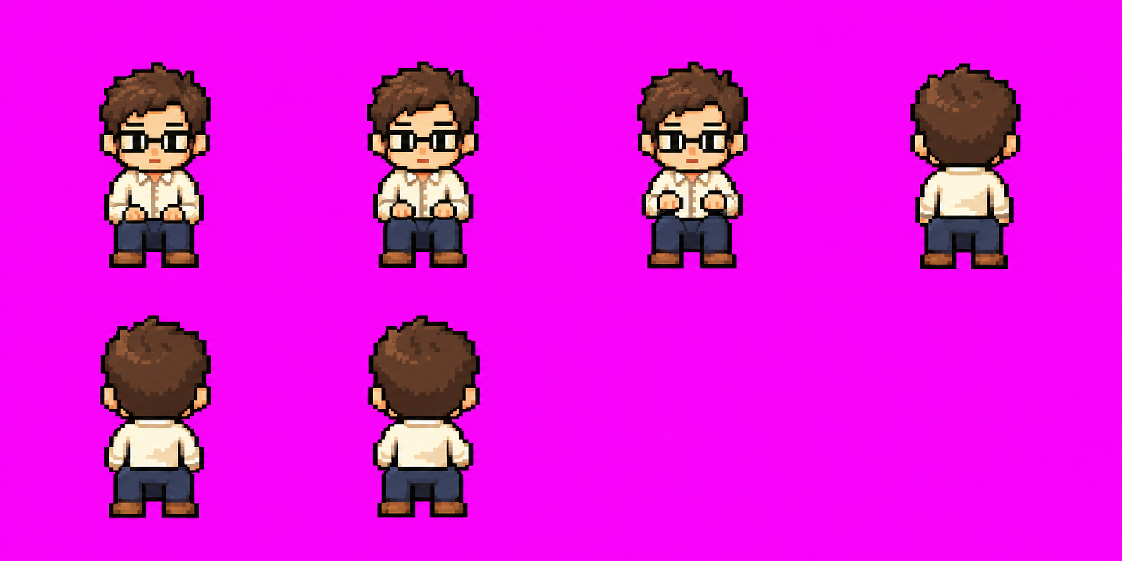
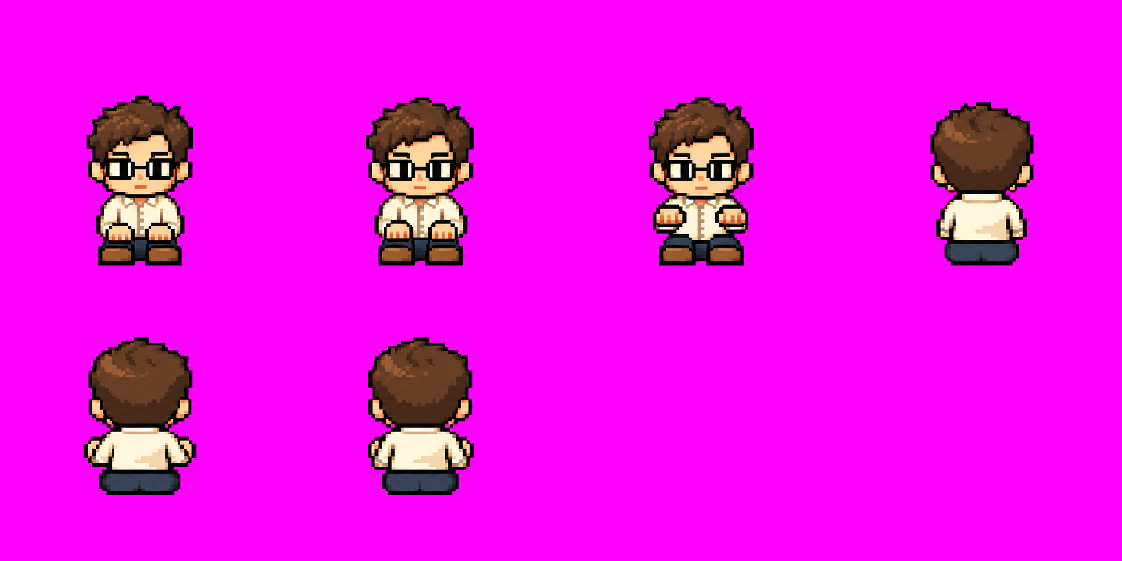
office: regenerate visibly seated front and back frames

diff --git a/apps/office/assets/PROMPTS.md b/apps/office/assets/PROMPTS.md
@@ -1,37 +1,23 @@
 # 像素办公室素材生成记录
-
+第二版（2026-10-15）取代 W51 第一版：第一版正背坐姿腿过长、整体高度接近站姿，看起来站在椅子上；以下第一版记录保留作为历史。
 使用 Codex 内置 image_gen 工具，2026-10-14 生成。画风参考 `docs/office-samples/background-sample.png` 与 `sprite-sample.png`。
-
 经协调者确认，为保证走路、坐姿、打字的原像素比例和身份一致，每种角色改为同一次生成的 **4 列 × 5 行** 图；前四行依次下、左、右、上，每行站、左脚、站、右脚，第五行坐姿、打字 1、打字 2、空格。新增坐姿由五张独立的 `<kind>-seated.png` 4 列 × 2 行补充图提供，原五行逐像素保留。只保留选中的六张原图及五张补充图。原图保留完整生成内容；固定原图运行 `pnpm --filter office sprites` 可确定性重建图集。生图本身具有随机性，同提示词不能保证逐像素重现。
-
 切帧方式经协调者确认调整为：抠色后在整图上做 8 邻接连通区域标记，按区域质心归入 `Math.round(i*W/4)`、`Math.round(j*H/5)` 边界确定的格子，完整保留越界头发。19 个角色格必须有像素，留空格不能超过 10 个不透明像素；全部帧仍共用框、底边对齐、最近邻等比缩放。
-
 ## background.png
-
 用途：场景背景，不缩放、不拉伸；public 中为原图副本。
-
 生成次数：2；选中第 2 次（对第 1 次结果作定向修改）。实测尺寸：1672×941。
-
 完整提示词原文：
-
 ```text
 Use case: stylized-concept. Create a production game background for a pixel-art office. Match the warm wooden furniture, cream walls, crisp dark brown pixel outlines and oblique overhead isometric view of the office sample. Wide horizontal 16:9 composition, requested 2048x1152. One complete spacious office with clearly separated areas and open connected walkways: reception counter at front left with an EMPTY chair behind it and a completed-file basket beside it; a large task whiteboard on the back wall; exactly FOUR work zones arranged as four separate desk clusters, each cluster containing FOUR individual computer desks and four empty chairs (16 work desks total), each cluster has an entirely blank sign plaque for programmatic labels; a separate meeting area with ONE large conference table and exactly SIX empty seats; a lounge with sofa and coffee machine; entrance door at the lower right edge. No people or characters anywhere, no silhouettes, no writing or letters on signs. Warm late afternoon light from upper left, cozy amber wood and cream, restrained plants. Pixel art with hard square pixels, no blur, no gradients, no watermark. Keep all furniture fully visible within image, reserve generous floor space for walking characters. This is a new larger office scene in the sample's style, not the sample's four-desk layout.
 ```
-
 第 2 次完整修改提示词（引用第 1 次生成图）：
-
 ```text
 Edit the referenced warm pixel office background. Change ONLY the conference area at TOP RIGHT: REMOVE the single chair at the left short end of the table and the single chair at the right short end. Keep the THREE chairs along the upper long edge and THREE chairs along the lower long edge, exactly SIX seats total. Fill removed chairs with the matching rug/floor. Preserve the entire rest of the image unchanged: four 4-desk clusters, reception and completed-file basket at lower left, whiteboard, blank plaques, lounge coffee machine, entrance at lower right, empty people-free scene, warm wood, overhead oblique view, wide composition, original dimensions. Do not add people, text or any new furniture.
 ```
-
 ## claude-code.png
-
 用途：角色原图，19 帧共用包围盒、脚底对齐，最近邻等比缩放到 64×96。
-
 生成次数：1；选中第 1 次。实测尺寸：1122×1402。
-
 完整提示词原文：
-
 ```text
 Use case: stylized-concept. Production pixel-game character atlas, exactly FOUR columns and FIVE rows in a regular equally spaced rectangular grid (20 equal cells). Uniform pure #FF00FF magenta background. claude-code office worker: teal hoodie with hood down, dark charcoal trousers, brown shoes, short dark brown hair, warm peach face. Same face, outfit, pixel scale and two-head-tall chibi proportions in ALL cells, including sitting cells. Crisp thick dark brown square pixel outlines, simple 3-tone shading, upper-left warm light, retro RPG sprites matching the supplied sample's aesthetic. Every character occupies about 65% of its cell height when standing; generous magenta margins and centered horizontally. Feet at identical local baseline in every cell. No shadows, text, grid borders or props.
 ROW 1 DOWN facing viewer: neutral standing, left foot forward, neutral standing, right foot forward.
@@ -41,15 +27,10 @@ ROW 4 UP back view: neutral standing, left foot forward, neutral standing, right
 ROW 5: cell 1 RIGHT profile seated on invisible chair, hands on lap; cell 2 same seated pose with hands forward at invisible keyboard height down; cell 3 same seated pose with hands a few pixels up typing; cell 4 completely EMPTY MAGENTA.
 Seated sprites are naturally shorter due to bent knees, NEVER enlarged: exactly same head size, same torso size and same pixel scale as walking sprites. All soles rest at the same relative height in their cells. No visible chair, desk or keyboard. Maintain outfit teal hoodie with hood down, dark charcoal trousers, brown shoes, short dark brown hair, warm peach face throughout. Need exactly 19 characters plus one blank cell; never add sixth row.
 ```
-
 ## codex.png
-
 用途：角色原图，19 帧共用包围盒、脚底对齐，最近邻等比缩放到 64×96。
-
 生成次数：2；选中第 2 次（对第 1 次结果作定向修改）。实测尺寸：1122×1402。
-
 完整提示词原文：
-
 ```text
 Use case: stylized-concept. Production pixel-game character atlas, exactly FOUR columns and FIVE rows in a regular equally spaced rectangular grid (20 equal cells). Uniform pure #FF00FF magenta background. codex office worker: ivory button-up shirt, navy trousers, brown shoes, black rectangular glasses, short dark brown hair, warm peach face. Same face, outfit, pixel scale and two-head-tall chibi proportions in ALL cells, including sitting cells. Crisp thick dark brown square pixel outlines, simple 3-tone shading, upper-left warm light, retro RPG sprites matching the supplied sample's aesthetic. Every character occupies about 65% of its cell height when standing; generous magenta margins and centered horizontally. Feet at identical local baseline in every cell. No shadows, text, grid borders or props.
 ROW 1 DOWN facing viewer: neutral standing, left foot forward, neutral standing, right foot forward.
@@ -59,21 +40,14 @@ ROW 4 UP back view: neutral standing, left foot forward, neutral standing, right
 ROW 5: cell 1 RIGHT profile seated on invisible chair, hands on lap; cell 2 same seated pose with hands forward at invisible keyboard height down; cell 3 same seated pose with hands a few pixels up typing; cell 4 completely EMPTY MAGENTA.
 Seated sprites are naturally shorter due to bent knees, NEVER enlarged: exactly same head size, same torso size and same pixel scale as walking sprites. All soles rest at the same relative height in their cells. No visible chair, desk or keyboard. Maintain outfit ivory button-up shirt, navy trousers, brown shoes, black rectangular glasses, short dark brown hair, warm peach face throughout. Need exactly 19 characters plus one blank cell; never add sixth row.
 ```
-
 第 2 次完整修改提示词（引用第 1 次生成图）：
-
 ```text
 Edit this character sheet for strict equal-cell slicing. Keep exactly 1122x1402 image, 4 columns by 5 rows, 19 same codex characters and the blank bottom-right cell, original face glasses ivory shirt navy trousers brown shoes, all poses and pixel scale unchanged. The equal ROW boundaries are y=0,280,561,841,1122,1402. The equal COLUMN boundaries are x=0,281,561,842,1122. EVERY sprite including hair and shoes MUST be completely inside its own cell with at least 25 pixels magenta clearance from EVERY boundary. Move sprites vertically to have feet at y=235,515,796,1076,1357 respectively; do not resize sprites. This eliminates the back-view hair spilling into row3 and seated hair spilling into row4. Preserve down,left,right,up row order and sit,typing1,typing2,empty fifth row. Fill all gaps with exact flat #FF00FF, no stray pixels or shadows.
 ```
-
 ## n8n.png
-
 用途：角色原图，19 帧共用包围盒、脚底对齐，最近邻等比缩放到 64×96。
-
 生成次数：1；选中第 1 次。实测尺寸：1122×1402。
-
 完整提示词原文：
-
 ```text
 Use case: stylized-concept. Production pixel-game character atlas, exactly FOUR columns and FIVE rows in a regular equally spaced rectangular grid (20 equal cells). Uniform pure #FF00FF magenta background. n8n office worker: bright orange vest over cream short-sleeved shirt, charcoal trousers, brown shoes, short dark brown hair, warm peach face. Same face, outfit, pixel scale and two-head-tall chibi proportions in ALL cells, including sitting cells. Crisp thick dark brown square pixel outlines, simple 3-tone shading, upper-left warm light, retro RPG sprites matching the supplied sample's aesthetic. Every character occupies about 65% of its cell height when standing; generous magenta margins and centered horizontally. Feet at identical local baseline in every cell. No shadows, text, grid borders or props.
 ROW 1 DOWN facing viewer: neutral standing, left foot forward, neutral standing, right foot forward.
@@ -83,15 +57,10 @@ ROW 4 UP back view: neutral standing, left foot forward, neutral standing, right
 ROW 5: cell 1 RIGHT profile seated on invisible chair, hands on lap; cell 2 same seated pose with hands forward at invisible keyboard height down; cell 3 same seated pose with hands a few pixels up typing; cell 4 completely EMPTY MAGENTA.
 Seated sprites are naturally shorter due to bent knees, NEVER enlarged: exactly same head size, same torso size and same pixel scale as walking sprites. All soles rest at the same relative height in their cells. No visible chair, desk or keyboard. Maintain outfit bright orange vest over cream short-sleeved shirt, charcoal trousers, brown shoes, short dark brown hair, warm peach face throughout. Need exactly 19 characters plus one blank cell; never add sixth row.
 ```
-
 ## script.png
-
 用途：角色原图，19 帧共用包围盒、脚底对齐，最近邻等比缩放到 64×96。
-
 生成次数：2；选中第 2 次（对第 1 次结果作定向修改）。实测尺寸：1122×1402。
-
 完整提示词原文：
-
 ```text
 Use case: stylized-concept. Production pixel-game character atlas, exactly FOUR columns and FIVE rows in a regular equally spaced rectangular grid (20 equal cells). Uniform pure #FF00FF magenta background. script office worker: blue baseball cap, mustard short-sleeved shirt, navy trousers, brown shoes, short dark brown hair, warm peach face. Same face, outfit, pixel scale and two-head-tall chibi proportions in ALL cells, including sitting cells. Crisp thick dark brown square pixel outlines, simple 3-tone shading, upper-left warm light, retro RPG sprites matching the supplied sample's aesthetic. Every character occupies about 65% of its cell height when standing; generous magenta margins and centered horizontally. Feet at identical local baseline in every cell. No shadows, text, grid borders or props.
 ROW 1 DOWN facing viewer: neutral standing, left foot forward, neutral standing, right foot forward.
@@ -101,21 +70,14 @@ ROW 4 UP back view: neutral standing, left foot forward, neutral standing, right
 ROW 5: cell 1 RIGHT profile seated on invisible chair, hands on lap; cell 2 same seated pose with hands forward at invisible keyboard height down; cell 3 same seated pose with hands a few pixels up typing; cell 4 completely EMPTY MAGENTA.
 Seated sprites are naturally shorter due to bent knees, NEVER enlarged: exactly same head size, same torso size and same pixel scale as walking sprites. All soles rest at the same relative height in their cells. No visible chair, desk or keyboard. Maintain outfit blue baseball cap, mustard short-sleeved shirt, navy trousers, brown shoes, short dark brown hair, warm peach face throughout. Need exactly 19 characters plus one blank cell; never add sixth row.
 ```
-
 第 2 次完整修改提示词（引用第 1 次生成图）：
-
 ```text
 Edit the referenced pixel sprite atlas. Keep exactly its 4 columns by 5 rows, dimensions, all colors, magenta background, blue-cap mustard-shirt character identity, pixel proportions and outlines. Change ONLY rows TWO and THREE: swap those rows' contents, so row TWO all four characters face LEFT (nose and cap brim point toward the LEFT edge), row THREE all four characters face RIGHT (nose and cap brim point toward the RIGHT edge). Rows one, four and five must remain unchanged, row five fourth cell stays empty magenta. Preserve exact equal grid spacing and walking order standing, left foot, standing, right foot. No text or lines.
 ```
-
 ## custom.png
-
 用途：角色原图，19 帧共用包围盒、脚底对齐，最近邻等比缩放到 64×96。
-
 生成次数：1；选中第 1 次。实测尺寸：1122×1402。
-
 完整提示词原文：
-
 ```text
 Use case: stylized-concept. Production pixel-game character atlas, exactly FOUR columns and FIVE rows in a regular equally spaced rectangular grid (20 equal cells). Uniform pure #FF00FF magenta background. custom office worker: burgundy casual sweater, khaki trousers, brown shoes, short dark brown hair, warm peach face. Same face, outfit, pixel scale and two-head-tall chibi proportions in ALL cells, including sitting cells. Crisp thick dark brown square pixel outlines, simple 3-tone shading, upper-left warm light, retro RPG sprites matching the supplied sample's aesthetic. Every character occupies about 65% of its cell height when standing; generous magenta margins and centered horizontally. Feet at identical local baseline in every cell. No shadows, text, grid borders or props.
 ROW 1 DOWN facing viewer: neutral standing, left foot forward, neutral standing, right foot forward.
@@ -125,9 +87,7 @@ ROW 4 UP back view: neutral standing, left foot forward, neutral standing, right
 ROW 5: cell 1 RIGHT profile seated on invisible chair, hands on lap; cell 2 same seated pose with hands forward at invisible keyboard height down; cell 3 same seated pose with hands a few pixels up typing; cell 4 completely EMPTY MAGENTA.
 Seated sprites are naturally shorter due to bent knees, NEVER enlarged: exactly same head size, same torso size and same pixel scale as walking sprites. All soles rest at the same relative height in their cells. No visible chair, desk or keyboard. Maintain outfit burgundy casual sweater, khaki trousers, brown shoes, short dark brown hair, warm peach face throughout. Need exactly 19 characters plus one blank cell; never add sixth row.
 ```
-
 ## 实测尺寸总表
-
 | 原图 | 用途 | 次数 / 选中 | 实测宽×高 |
 | --- | --- | --- | --- |
 | background.png | 背景 | 2 / 2 | 1672×941 |
@@ -136,58 +96,104 @@ Seated sprites are naturally shorter due to bent knees, NEVER enlarged: exactly 
 | n8n.png | 4×5 角色精灵（19 帧） | 1 / 1 | 1122×1402 |
 | script.png | 4×5 角色精灵（19 帧） | 2 / 2 | 1122×1402 |
 | custom.png | 4×5 角色精灵（19 帧） | 1 / 1 | 1122×1402 |
-
-
 ## claude-code-seated.png
-
 用途：新增正面／背面坐姿与打字六帧；原五行不改。生成次数：2；选中第 2 次。实测尺寸：1774×887；最近邻缩放到 1122×561，缩放前后人工检查像素清晰、正背方向正确。
-
 完整提示词原文（按生成顺序；每次均引用原角色图，定向修改另引用前次结果）：
-
 ```text
 Use case: identity-preserve. Edit the referenced production pixel-game character atlas to produce ONLY TWO NEW ROWS, exactly FOUR columns by TWO rows (8 equal cells), requested 1122x561. Reference is identity and exact pixel-scale guide, do NOT redraw or include its original five rows. Uniform pure #FF00FF magenta background. Same claude-code worker, teal hoodie hood down, charcoal trousers, brown shoes, same short dark brown hair and peach face, same thick square dark outlines and 3-tone pixel shading. Exact SAME head width approximately 108 pixels and seated total height approximately 200 pixels as reference fifth row, NEVER enlarge. Each 280.5x280.5 cell has sprite centered horizontally and soles at local y=235. ROW 1: cell 1 DOWN facing viewer seated on invisible chair hands on lap; cell 2 same front seated hands forward at invisible keyboard height down; cell 3 same front seated hands slightly raised typing; cell 4 UP back-view seated, showing back of head and hoodie back. ROW 2: cell 1 UP back-view seated typing hands low; cell 2 same back seated typing hands slightly raised; cells 3 and 4 COMPLETELY EMPTY MAGENTA. Bent knees make seated sprite shorter than standing. Match reference fifth row torso size and head size exactly. Front faces audience, back shows no face. No chair, desk, keyboard, shadows, labels, text or grid lines. Keep six figures fully inside individual cells with generous magenta margins. Output only new 4x2 sheet.
 ```
-
 ```text
 Use case: identity-preserve. Correct ONLY the seated posture of the six figures in image 2. Image 1 original fifth row is the exact identity and scale reference. Image 2 figures currently look standing: make all six visibly SITTING with thighs horizontal, bent knees raised forward, short vertical shins, soles beneath knees. Front figures must have visibly broad horizontal lap and knees protruding sideways in front of hips, torso shortened by sitting, NOT straight standing legs. Back figures must also sit with bent legs, wide seated hips and shortened lower body. Same hair and face and teal hoodie from reference, no change in head size; normalized to requested 1122x561 sheet the head should be 108 px wide and total seated body 200 px tall. Match original fifth row pixel-art exactly. Keep 4 columns x2 rows: top front sit / front typing hands low / front typing hands up / back sit; bottom back typing low / back typing up / EMPTY / EMPTY. Pure #FF00FF background. No chairs, desks, keyboards, shadows, text, lines. Only new two-row sheet, requested 1122x561.
 ```
-
 ## codex-seated.png
-
 用途：新增正面／背面坐姿与打字六帧；原五行不改。生成次数：1；选中第 1 次。实测尺寸：1774×887；最近邻缩放到 1122×561，缩放前后人工检查像素清晰、正背方向正确。
-
 完整提示词原文（按生成顺序；每次均引用原角色图，定向修改另引用前次结果）：
-
 ```text
 Use case: identity-preserve. Using this original sprite atlas as exact identity and pixel-scale reference, output ONLY new TWO ROWS, FOUR columns by TWO rows, requested 1122x561, pure #FF00FF magenta background. Codex worker same black rectangular glasses, short brown hair, ivory button-up shirt, navy trousers, brown shoes. Same face and shading, crisp square pixels, thick dark outlines, NOT enlarged. At 1122x561 each sprite seated height 216px and head width 120px, matching original fifth-row sit. All six figures visibly SITTING: horizontal thighs and raised broad knees in front of hips, bent knees, short vertical shins, wide seated lap, shorter than standing. ROW 1: DOWN front-facing sitting hands on lap; DOWN sitting typing hands forward low; DOWN sitting typing hands a few pixels higher; UP back-view sitting showing back of head and shirt, no face. ROW 2: UP sitting typing low; UP sitting typing hands slightly raised; EMPTY MAGENTA; EMPTY MAGENTA. Same original pixel thickness and body proportions as fifth row. Regular equally spaced 280.5px cells, centered with ample margins and soles at local y=245. No visible chair, desk, keyboard, shadows, letters or grid lines. Do not include original five rows.
 ```
-
 ## n8n-seated.png
-
 用途：新增正面／背面坐姿与打字六帧；原五行不改。生成次数：1；选中第 1 次。实测尺寸：1774×887；最近邻缩放到 1122×561，缩放前后人工检查像素清晰、正背方向正确。
-
 完整提示词原文（按生成顺序；每次均引用原角色图，定向修改另引用前次结果）：
-
 ```text
 Use case: identity-preserve. Produce ONLY TWO NEW ROWS for referenced pixel atlas, requested 1122x561, exactly FOUR columns x TWO rows regular equal cells. Pure #FF00FF magenta background. Exact same n8n worker identity: orange vest cream short sleeves charcoal trousers brown shoes short dark brown hair peach face, thick dark square pixel outlines, simple 3-tone shading, same original pixel thickness. Original fifth-row sit is size reference: seated total height 200px, head width 104px at target dimensions. Never enlarge. Six figures all visibly SITTING: horizontal thighs, bent knees forward, broad lap and short downward shins; shorter than standing, same torso and head size. ROW 1: DOWN front-view seated hands on lap; DOWN seated typing hands forward low; DOWN seated typing hands slightly up; UP back-view seated showing back of head and vest, no face. ROW 2: UP seated typing hands low; UP seated typing hands slightly raised; EMPTY MAGENTA; EMPTY MAGENTA. Center sprites within 280.5px cells, feet at local y=240, generous clear margins. No chairs desks keyboards shadows text or grid lines. Only new two rows, exclude original five rows, preserve reference appearance.
 ```
-
 ## script-seated.png
-
 用途：新增正面／背面坐姿与打字六帧；原五行不改。生成次数：1；选中第 1 次。实测尺寸：1774×887；最近邻缩放到 1122×561，缩放前后人工检查像素清晰、正背方向正确。
-
 完整提示词原文（按生成顺序；每次均引用原角色图，定向修改另引用前次结果）：
-
 ```text
 Use case: identity-preserve. Produce ONLY TWO NEW ROWS for referenced pixel atlas, requested 1122x561, exactly FOUR columns x TWO rows regular equal cells. Pure #FF00FF magenta background. Exact same script worker identity: blue baseball cap, mustard short-sleeve shirt navy trousers brown shoes brown hair peach face, thick dark square pixel outlines, simple 3-tone shading, same original pixel thickness. Original fifth-row sit is size reference: seated total height 197px, head width 114px at target dimensions. Never enlarge. Six figures all visibly SITTING: horizontal thighs and bent knees forward, broad lap, short downward shins; shorter than standing, same torso and head size. ROW 1: DOWN front-view seated hands on lap; DOWN seated typing hands forward low; DOWN seated typing hands slightly up; UP back-view seated showing cap back and shirt back, no face. ROW 2: UP seated typing hands low; UP seated typing hands slightly raised; EMPTY MAGENTA; EMPTY MAGENTA. Center sprites within 280.5px cells, feet at local y=240, generous clear margins. No chairs desks keyboards shadows text or grid lines. Only new two rows, exclude original five rows, preserve reference appearance.
 ```
-
 ## custom-seated.png
-
 用途：新增正面／背面坐姿与打字六帧；原五行不改。生成次数：1；选中第 1 次。实测尺寸：1774×887；最近邻缩放到 1122×561，缩放前后人工检查像素清晰、正背方向正确。
-
 完整提示词原文（按生成顺序；每次均引用原角色图，定向修改另引用前次结果）：
-
 ```text
 Use case: identity-preserve. Produce ONLY TWO NEW ROWS for referenced pixel atlas, requested 1122x561, exactly FOUR columns x TWO rows regular equal cells. Pure #FF00FF magenta background. Exact same custom worker identity: burgundy sweater with white collar khaki trousers brown shoes short dark brown hair peach face, thick dark square pixel outlines, simple 3-tone shading, same original pixel thickness. Original fifth-row sit is size reference: seated total height 200px, head width 106px at target dimensions. Never enlarge. Six figures all visibly SITTING: horizontal thighs and bent knees forward, broad lap, short downward shins; shorter than standing, same torso and head size. ROW 1: DOWN front-view seated hands on lap; DOWN seated typing hands forward low; DOWN seated typing hands slightly up; UP back-view seated showing back of head and sweater, no face. ROW 2: UP seated typing hands low; UP seated typing hands slightly raised; EMPTY MAGENTA; EMPTY MAGENTA. Center sprites within 280.5px cells, feet at local y=240, generous clear margins. No chairs desks keyboards shadows text or grid lines. Only new two rows, exclude original five rows, preserve reference appearance.
+```
+## 坐姿第二版共用处理
+经协调端确认，六个人物按同一个 0.85–1.0 系数等比最近邻缩小，不压扁头部、不改姿势；每格水平居中、底边保持生成结果的位置。原图 `<kind>.png` 不动。以下比例先按实际输出最近邻调整到 1122×561，再测包围盒；头宽取包围盒上方 35% 不透明区域的横向跨度。六格均已逐格检查：正面大腿横向、膝盖弯曲，背面只见后脑、肩背和坐着的臀部；缩放后未见明显断线。
+选中原始生成结果保存在 `https://raw.githubusercontent.com/zygs1083-dotcom/IDesk/pr-assets/w54/selected-original-<kind>.png`；下载到 `selected.png` 后执行下列代码（`kind`、`factor` 取各节数值）可复现已入库结果，不往 tools/ 增加脚本：
+```python
+from PIL import Image
+import math
+import sys
+kind,source,factor=sys.argv[1],sys.argv[2],float(sys.argv[3])
+image=Image.open(source).convert('RGB').resize((1122,561),Image.Resampling.NEAREST)
+result=Image.new('RGB',image.size,(255,0,255))
+for index in range(6):
+ col,row=index%4,index//4
+ left,right=round(col*1122/4),round((col+1)*1122/4)
+ top,bottom=round(row*561/2),round((row+1)*561/2)
+ cell=image.crop((left,top,right,bottom))
+ mask=Image.new('L',cell.size)
+ mask.putdata([255 if math.dist(rgb,(255,0,255))>60 else 0 for rgb in cell.get_flattened_data()])
+ box=mask.getbbox()
+ figure=cell.crop(box)
+ figure=figure.resize((round(figure.width*factor),round(figure.height*factor)),Image.Resampling.NEAREST)
+ result.paste(figure,(round((left+right-figure.width)/2),top+box[3]-figure.height))
+result.save('apps/office/assets/raw/'+kind+'-seated.png')
+```
+命令：`python3 normalize.py <kind> selected.png <factor>`（代码仅供复现；normalize.py 是临时文件）。
+## claude-code-seated.png 坐姿补充图第二版
+用途：替换第一版正背坐与打字六帧；4 列 × 2 行，末两格空白。生成次数：3；选中第 3 次。实测尺寸：1774×887；先整图最近邻到 1122×561，再六格统一系数 0.90，每格底边居中；最终 1122×561。
+实测（高度比 / 头宽差，前→后处理）：sit/down 0.8660 / +8.57% → 0.7799 / -1.90%；sit/up 0.8421 / +15.24% → 0.7560 / +3.81%。
+完整提示词原文（按生成顺序，行序即次数；引用原图及上次生成图）：
+```text
+Create seated supplement ONLY4columns x2rows, output1122x561 pure #ff00ff. Preserve referenced pixel character teal hoodie brown spiky hair black trousers brown shoes. Reference first standing frame is210px high head106px wide. Every new seated figure MUST be157px high (75% standing), head106px wide unchanged. Head approximately94px high, shirt torso only40px high, knees/shins/feet only23px high. Make very squat seated shape with broad lap. Front sit has horizontal thighs toward viewer bent knees short downward shins feet in front, clearly seated not standing. Back sit only back head shoulders hoodie and rounded seated buttocks, legs hidden. Don't render furniture. Row1 front sit hands lap/front typing/front typing alternate/back sit; row2 back typing/back typing alternate/empty/empty. Cell centers140,421,701,982. Heads top95 feet252 in each row. Thin crisp square pixels match original. NO long legs, NO tall torsos. If generated at1774px wide, figures must be248px total high and head168px wide. KEEP HEAD LARGE and shorten body below head strongly.
+CORRECTION: first image figures are MUCH TOO LARGE. Regenerate same six seated poses same4x2 magenta sheet with MUCH MORE EMPTY MAGENTA SPACE AROUND EACH FIGURE. At1774x887 output each cell443x443. Each figure must occupy only248px vertical (56% of cell height) and168px head width (38% cell width). Existing first image figures are320px high and200px wide WRONG, reduce whole body size about20%, but head MUST match second image original standing head when scaled sheets both1122px wide. Head target106px at1122px width. Seated height157px. Put feet local y255 and top98 on1122 sheet. Broad lap horizontal thighs bent knees downward short shins. Back seated head hoodie back and rounded buttocks, legs hidden. Keep hands lap in first, typing front next two, back sit fourth, back typing two nextrow, empty final2. Hoodie teal brown spiky hair black pants brown shoes, same crisp pixel art. No furniture. Plenty empty magenta, figures must look smaller than first image. Match original standing head size.
+Increase the size of ALL six existing pixel characters by exactly25 percent (1.25x) within their same respective cells. Keep sheet 4columns x2rows magenta, same six poses and last2empty. Current characters approximately200px high in1774x887 sheet, make250px high with head168px wide. Head must not become giant. Scale whole figures uniformly, retain exact seated proportions; broad bent knees feet forward on front, rounded seated bottom and hidden legs on back. Brown spiky hair teal hoodie charcoal trousers brown shoes. Don't invent new pose or modify colors. Keep pixel edges crisp. Generous magenta margins.
+```
+## codex-seated.png 坐姿补充图第二版
+用途：替换第一版正背坐与打字六帧；4 列 × 2 行，末两格空白。生成次数：4；选中第 2 次。实测尺寸：1774×887；先整图最近邻到 1122×561，再六格统一系数 0.92，每格底边居中；最终 1122×561。
+实测（高度比 / 头宽差，前→后处理）：sit/down 0.8479 / +4.55% → 0.7788 / -3.64%；sit/up 0.8111 / +0.91% → 0.7465 / -7.27%。
+完整提示词原文（按生成顺序，行序即次数；引用原图及上次生成图）：
+```text
+Create replacement codex seated pixel sprite supplement. Output 1122x561, exactly 4 columns x 2 rows on solid #FF00FF. Preserve identical brown hair, glasses, cream shirt, dark trousers and pixel art identity from reference. Reference standing down first cell is 218px tall with head 110px wide. ALL NEW seated sprites MUST have 164px total opaque height (75% of standing), SAME head width 110px, same head size, shorten only legs. NOT 200px tall. Front seated: visibly bent knees, horizontal thighs toward viewer, very short vertical shins, feet in front, lap broad. Back seated: only back of head shoulders shirt back and rounded seated buttocks, legs almost completely hidden, NEVER long standing legs. No visible chair furniture or shadows. Cell centers x 140,421,701,982. Feet at local y=245, head top y=81 in each row. Row1: front sit hands lap; front typing hands forward; front typing hands raised a little; back sit. Row2: back typing; back typing alternate; EMPTY; EMPTY. Exactly six figures. Crisp square pixel edges. Keep magenta gaps and regular cells. This replaces a failed version whose long legs made characters stand on chairs. Shrink legs strongly, preserve head.
+Edit second image seated sheet to fix proportions using first standing sheet identity. Keep 4x2 six poses, magenta background and empty last two cells. IMPORTANT second image still too tall: at its 1774x887 size opaque figures height 310px is WRONG; required height 258px maximum, ideally 254px. Head width should be 174px, current 186px is too wide, reduce head width slightly only to 174px. Front head about 160px height, torso only 58px height, knees and feet only 36px height, total 254px. Back head about 160px high plus shoulders torso and seated bottom total only 254px, no legs visible. Front visibly seated with horizontal thighs toward viewer, broad lap, bent knees, tiny shins pointing down and feet forward. Preserve head same size as standing reference when both sheets normalized to 1122px width: 110px wide. DO NOT simply uniformly shrink characters. Shorten torso and legs dramatically while retaining head size. Current head top around100 feet410; instead head top around150 feet404. Exact same pose order. Pixel art sharp, no furniture, solid #ff00ff. Whole seated figures only 75% standing height.
+Edit this sprite sheet. Current front seated opaque height measured184px at1122x561, target 163px so remove21px height from torso/legs. Current back sit176px target163px remove13px torso height. Keep head completely identical same width115px and height, preserve individual head pixels as far as possible. Place front head top y100 feet263 (163px tall). Existing reference front top81 bottom265 is too tall. Squash shirt torso vertically and make knees bend sharply horizontally out toward viewer, thighs horizontal, short shins feet forward; head unchanged. Back only back of head shoulders and seated rounded buttocks with hidden legs. Back head top100 bottom263. Row2 same. Keep regular4x2 grid, six poses order front sit/front type/front type/back sit, row2 back type/back type/empty/empty. Solid magenta. Preserve brown hair glasses cream shirt navy pants pixel art. Make all six full body bounding height163px at1122px wide, not184. No furniture.
+Draw ONLY six SUPER SQUAT seated codex pixel figures, 4x2 sheet magenta background. Requested1122x561. Preserve brown hair glasses cream shirt dark pants shoes. Standing head110px width, standing total217px. New seated figures only150px tall with head110px wide. Must be nearly square silhouette. Make head exactly same as standing. Body below head only50px tall TOTAL (shirt30px, knees and feet20px). Head100px high. Front HUGE head, compressed shirt, broad lap with knees sharply bent horizontal thighs aimed toward viewer, tiny vertical shins feet in front. Back HUGE same head plus very short shirt and seated buttocks, absolutely no visible legs. Sitting is radically shorter than standing. All six same150px height. Row1 front sit/front typing/front alternate/back sit; row2 back typing/back alternate/empty/empty. Four equal columns two equal rows, centered in each cell. Pixel art crisp square outlines same visual identity. No chairs, no shadows, no text. DO NOT draw a normal full-height torso or straight legs. Head comprises two thirds entire height. At1774x887 size head174px wide and seated total237px high.
+```
+## n8n-seated.png 坐姿补充图第二版
+用途：替换第一版正背坐与打字六帧；4 列 × 2 行，末两格空白。生成次数：3；选中第 3 次。实测尺寸：1774×887；先整图最近邻到 1122×561，再六格统一系数 0.98，每格底边居中；最终 1122×561。
+实测（高度比 / 头宽差，前→后处理）：sit/down 0.7950 / +5.00% → 0.7800 / +3.00%；sit/up 0.7750 / +3.00% → 0.7600 / +1.00%。
+完整提示词原文（按生成顺序，行序即次数；引用原图及上次生成图）：
+```text
+Draw ONLY six SUPER SQUAT seated n8n pixel workers matching reference identity orange vest cream short sleeves charcoal pants brown hair brown shoes. 4columns x2rows sheet1122x561 magenta #ff00ff, six figures first6cells, last2empty. Standing is200px tall head100px wide; NEW seated total150px height and head100px width unchanged. Head90px height, torso40px, knees+feet20px. Do NOT enlarge head or torso. Front seated horizontal thighs toward viewer, knees bent at right angles, tiny shins vertical feet in front, broad lap. Back seated only back of head shoulders vest and round buttocks on invisible chair, legs obscured entirely. Row1 front sit hands lap/front typing/front typing alternate/back sit; row2 back typing/back typing alternate/empty/empty. No chairs desks shadows text. Generous margins, equal cell spacing. At1774x887 equivalent figure237px tall head158px wide. Strongly compressed torso/legs to produce unmistakable sitting, head stays as reference.
+Regenerate same 4x2 seated n8n six poses but reduce all figures15% uniformly and shorten front shins further so knees clearly bent and thighs horizontal pointing toward viewer. Keep head same proportion to torso, broad lap, back only rounded seated buttocks no legs. Maintain orange vest cream short sleeves charcoal pants brown hair shoes. No chairs or shadows. Important output aspect2:1 (1122x561), four equal columns two equal rows, NOT16:9. Empty final2cells. At1122px width new figures total170px high with head108px wide. All six same scale. Plenty solid#ff00ff magenta margins. Pixel art square edges, original identity.
+Edit referenced n8n seated sheet: reduce all six figures in size by exactly8% uniformly, leaving more empty magenta around each figure. Keep original 4x2 layout with6poses and final2empty, output1774x887 (or1122x561). Existing figures approx305px tall; new figures must280px tall (at1774wide), head180px wide. Same brown hair orange vest cream sleeves charcoal trousers shoes, crisp pixel art. Preserve front seated broad horizontal thighs, bent knees and short downward shins feet in front; preserve back shoulders and seated rounded buttocks no visible legs. No furniture. Do not enlarge figures or fill cells. Row1 front sit/front type/front type alternate/back sit; row2 back type/back type alternate/empty/empty. Magenta#ff00ff.
+```
+## script-seated.png 坐姿补充图第二版
+用途：替换第一版正背坐与打字六帧；4 列 × 2 行，末两格空白。生成次数：1；选中第 1 次。实测尺寸：1774×887；先整图最近邻到 1122×561，再六格统一系数 0.91，每格底边居中；最终 1122×561。
+实测（高度比 / 头宽差，前→后处理）：sit/down 0.8657 / +2.02% → 0.7861 / -7.07%；sit/up 0.8358 / +0.00% → 0.7612 / -9.09%。
+完整提示词原文（按生成顺序，行序即次数；引用原图及上次生成图）：
+```text
+Generate ONLY seated supplement4columns x2rows on pure#ff00ff magenta, output1122x561. Identity from reference script worker blue baseball cap mustard short sleeve shirt navy trousers brown shoes. Preserve head100px wide as original standing; standing is202px tall, seated MUST be155px total height. Each figure occupies only55% of each280px cell height, head36% cell width, ample empty magenta. Make very squat seated pose with head95px high, torso35px, legs+feet25px. Front thighs horizontal toward viewer knees bent right angle tiny vertical shins feet in front. Back only back cap shoulders shirt and round seated buttocks on invisible chair, no visible legs. Row1 front sit hands on lap/front typing/front typing alternate/back sit; row2 back typing/back typing alternate/empty/empty. Same six figures scale. Keep pixels crisp, same pixel size as original, no furniture shadows grid text. At1774x887 output total245px figure height and head158px wide. Do not fill cell with oversized figures.
+```
+## custom-seated.png 坐姿补充图第二版
+用途：替换第一版正背坐与打字六帧；4 列 × 2 行，末两格空白。生成次数：3；选中第 3 次。实测尺寸：1774×887；先整图最近邻到 1122×561，再六格统一系数 1.00，每格底边居中；最终 1122×561。
+实测（高度比 / 头宽差，前→后处理）：sit/down 0.7300 / -3.09% → 0.7300 / -3.09%；sit/up 0.7300 / -3.09% → 0.7300 / -3.09%。
+完整提示词原文（按生成顺序，行序即次数；引用原图及上次生成图）：
+```text
+Generate seated custom pixel worker supplement, ONLY4columns x2rows magenta#ff00ff,1122x561. Same reference identity burgundy sweater white collar khaki trousers brown shoes short dark brown hair. Standing reference200px high head96px wide. Seated target158px total with head100px wide (do not enlarge head). Figures occupy56% cell height and36% cell width head, generous magenta margins. Front seated horizontal thighs pointed toward viewer, strongly bent knees, tiny downward vertical shins feet in front, broad lap. Back seated only back of head shoulders sweater and rounded seated buttocks on invisible chair, no long standing legs. Head90px tall torso43px legs25px. Row1 front sit hands on lap/front typing hands forward/front typing alternate/back sit; row2 back typing/back typing alternate/empty/empty. Crisp square pixel art same outline thickness as reference, no furniture, shadows, text or grid. At1774px width each figure250px total tall head158px wide. Keep clear kneeling lap and seated hips.
+Correct referenced custom seated sprite sheet. CRITICAL TOP RIGHT (row1 column4) MUST FACE AWAY showing back of brown hair, back of burgundy sweater, rounded khaki seated buttocks, NO FACE, NO SHOES, just like bottom two back figures. Front3 figures must sit with horizontal thighs aimed toward viewer, bent knees, very short downward shins, feet in front. Reduce height of front3 by shortening torso and shins while keeping head same size. Output exact2:1 aspect (1122x561),4columns x2rows six figures final2empty pure magenta. Reference original standing200px tall, head96px wide. NEW front sit and back sit must only160px high with head96px wide; at1774wide total253px tall head152px wide. Head90px high, shirt45px, kneesfeet25px. Same identity and pixel style as reference. No furniture shadows text grids. Do not repeat front view in top right. Row1 front sit/front type/front type alternate/BACK SIT; row2 BACKTYPE/BACKTYPE/empty/empty.
+Scale all six seated characters uniformly DOWN by15% inside same respective cells, with MORE EMPTY MAGENTA SPACE. Keep4columns x2rows on#ff00ff, output1774x887. Current figure height325px and head210px in1774wide image are too big. New figures total275px high and head175px wide. Do not change any pose. Front3 show broad thighs horizontal toward viewer bent knees tiny downward shins feet forward. Back3 rounded seated buttocks, back of head sweater shoulders only, no face legs hidden. Burgundy sweater white collar khaki pants brown shoes brown hair. Same pixel art same identities. Row1 FRONT SIT/FRONT TYPE/FRONT TYPE/BACK SIT; row2 BACK TYPE/BACK TYPE/EMPTY/EMPTY. No furniture shadows text. Uniformly smaller than input, plenty more magenta margin.
 ```
